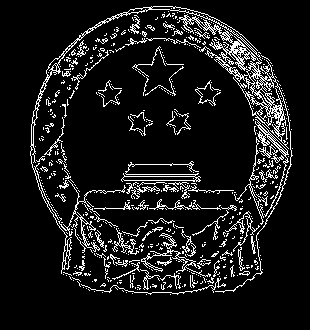
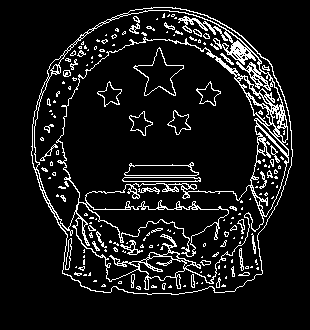
修复双线问题
修复双线问题

diff --git a/src/test.rs b/src/test.rs
@@ -1,0 +1,110 @@
+extern crate lodepng;
+use lodepng::RGB;
+
+fn main() {
+    let bitmap = lodepng::decode24_file("rust.png").unwrap();
+    let (width, height) = (bitmap.width, bitmap.height);
+    println!("width={},height={}", width, height);
+
+    let mut buffer:Vec<RGB<u8>> = vec![RGB::new(0, 0, 0); width*height];
+
+    edge_detection_h(&bitmap.buffer, &mut buffer, width, height, 127.0);
+    edge_detection_v(&bitmap.buffer, &mut buffer, width, height, 127.0);
+    
+    lodepng::encode24_file("test_out.png", &buffer, width, height).unwrap();
+}
+
+//边缘检测
+//buffer: 图像数据
+//height: 图像高度
+//width: 图像宽度
+//threshold: 阈值0~255
+//返回: 黑底百色边缘的图像数据
+fn edge_detection_h(buffer:&Vec<RGB<u8>>, out_buffer:&mut Vec<RGB<u8>>, width:usize, height:usize, threshold:f32){
+    let mut row_first_binary = true; //当前行第一个是否是双极细胞
+    let mut i = 0;
+
+    for _row in 0..height{
+        //第一列是否是双极细胞
+        let mut col_binary = row_first_binary;
+        for _col in 0..width{
+
+            match((calc_pixel(buffer.get(i+width), !col_binary, &buffer[i], threshold)
+                        + calc_pixel(buffer.get(i+width+1), col_binary, &buffer[i], threshold)
+                        )/2.0) as i32{ //(Sum(..pixel..)/255*4)*255 = Sum(..pixel..)/4
+                0 => {
+                    //out_buffer[i].r = 0;
+                    //out_buffer[i].g = 0;
+                    //out_buffer[i].b = 0;
+                }
+                _ => {
+                    out_buffer[i].r = 255;
+                    out_buffer[i].g = 255;
+                    out_buffer[i].b = 255;
+                }
+            }
+            //下一列是否是双极细胞
+            col_binary = !col_binary;
+            i += 1;
+        }
+        //下一行第一个是否是双极细胞
+        row_first_binary = !row_first_binary;
+    }
+}
+
+fn edge_detection_v(buffer:&Vec<RGB<u8>>, out_buffer:&mut Vec<RGB<u8>>, width:usize, height:usize, threshold:f32){
+    let mut row_first_binary = true; //当前行第一个是否是双极细胞
+    let mut i = 0;
+
+    for _row in 0..height{
+        //第一列是否是双极细胞
+        let mut col_binary = row_first_binary;
+        for _col in 0..width{
+
+            match((
+                        calc_pixel(buffer.get(i+width), !col_binary, &buffer[i], threshold)
+                        + calc_pixel(buffer.get(i+width+width), col_binary, &buffer[i], threshold)
+                        )/2.0) as i32{ //(Sum(..pixel..)/255*4)*255 = Sum(..pixel..)/4
+                0 => {
+                    //out_buffer[i].r = 0;
+                    //out_buffer[i].g = 0;
+                    //out_buffer[i].b = 0;
+                }
+                _ => {
+                    out_buffer[i].r = 255;
+                    out_buffer[i].g = 0;
+                    out_buffer[i].b = 0;
+                }
+            }
+            //下一列是否是双极细胞
+            col_binary = !col_binary;
+            i += 1;
+        }
+        //下一行第一个是否是双极细胞
+        row_first_binary = !row_first_binary;
+    }
+}
+
+//计算每个像素的输出
+//双极细胞(binary) 给光ON，撤光OFF
+//水平细胞(!binary) 亮光抑制，弱光增强，和双极细胞正好相反。
+// p: 像素
+// binary: true说明是像素代表双极细胞, false说明像素代表水平细胞
+// c: 如果像素没有找到，用此像素替换。
+// threshold: 阈值0~255
+fn calc_pixel(p:Option<&RGB<u8>>, binray:bool, c:&RGB<u8>, threshold:f32)->f32{
+    let pixel = match p{
+        Some(pixel) => pixel,
+        None => c
+    };
+    //二值化以后根据双极细胞、水平细胞返回输出值
+    if 0.299*pixel.r as f32+0.587*pixel.g as f32+0.114*pixel.b as f32>threshold{
+        if binray{
+            255.0 //强光双击细胞返回ON
+        }else{
+            -255.0 //强光水平细胞返回OFF
+        }
+    }else{
+        0.0 //弱光都不返回
+    }
+}

diff --git a/src/main.rs b/src/main.rs
@@ -2,13 +2,13 @@ extern crate lodepng;
 use lodepng::RGB;
 
 fn main() {
-    let bitmap = lodepng::decode24_file("0.png").unwrap();
+    let bitmap = lodepng::decode24_file("rust.png").unwrap();
     let (width, height) = (bitmap.width, bitmap.height);
     println!("width={},height={}", width, height);
 
-    let buffer = edge_detection(&bitmap.buffer, width, height, 127.0);
+    let buffer = edge_detection(&bitmap.buffer, width, height, 127.5);
     
-    lodepng::encode24_file("0_out.png", &buffer, width, height).unwrap();
+    lodepng::encode24_file("rust_out.png", &buffer, width, height).unwrap();
 }
 
 //边缘检测
@@ -19,54 +19,37 @@ fn main() {
 //返回: 黑底百色边缘的图像数据
 fn edge_detection(buffer:&Vec<RGB<u8>>, width:usize, height:usize, threshold:f32)->Vec<RGB<u8>>{
     let mut out_buffer:Vec<RGB<u8>> = vec![];
-
-    let mut row_first_binary = true; //当前行第一个是否是双极细胞
     let mut i = 0;
 
     for _row in 0..height{
         //第一列是否是双极细胞
-        let mut col_binary = row_first_binary;
         for _col in 0..width{
-            //右下4个像素
-            match((calc_pixel(buffer.get(i+1), !col_binary, &buffer[i], threshold)
-                        + calc_pixel(buffer.get(i+2), col_binary, &buffer[i], threshold)
-                        + calc_pixel(buffer.get(i+width), !col_binary, &buffer[i], threshold)
-                        + calc_pixel(buffer.get(i+width+width), col_binary, &buffer[i], threshold)
+            //4个像素
+            //双极细胞 给光ON，撤光OFF => 超过阈值:255
+            //水平细胞 亮光抑制，弱光增强，和双极细胞正好相反 => 超过阈值:-255
+            match((calc_pixel(buffer.get(i).unwrap_or(&buffer[i]), 255.0, threshold)
+                        + calc_pixel(buffer.get(i+1).unwrap_or(&buffer[i]), -255.0, threshold)
+                        +calc_pixel(buffer.get(i).unwrap_or(&buffer[i]), 255.0, threshold)
+                        + calc_pixel(buffer.get(i+width).unwrap_or(&buffer[i]), -255.0, threshold)
                         )/4.0) as i32{ //(Sum(..pixel..)/255*4)*255 = Sum(..pixel..)/4
                 0 => out_buffer.push(RGB::new(0, 0, 0)),
                 _ => out_buffer.push(RGB::new(255, 255, 255)),
             }
-
-            //下一列是否是双极细胞
-            col_binary = !col_binary;
             i += 1;
         }
-        //下一行第一个是否是双极细胞
-        row_first_binary = !row_first_binary;
     }
 
     out_buffer
 }
 
 //计算每个像素的输出
-//双极细胞(binary) 给光ON，撤光OFF
-//水平细胞(!binary) 亮光抑制，弱光增强，和双极细胞正好相反。
 // p: 像素
-// binary: true说明是像素代表双极细胞, false说明像素代表水平细胞
-// c: 如果像素没有找到，用此像素替换。
+// out: 超过阈值细胞的输出
 // threshold: 阈值0~255
-fn calc_pixel(p:Option<&RGB<u8>>, binray:bool, c:&RGB<u8>, threshold:f32)->f32{
-    let pixel = match p{
-        Some(pixel) => pixel,
-        None => c
-    };
+fn calc_pixel(pixel:&RGB<u8>, out:f32, threshold:f32)->f32{
     //二值化以后根据双极细胞、水平细胞返回输出值
     if 0.299*pixel.r as f32+0.587*pixel.g as f32+0.114*pixel.b as f32>threshold{
-        if binray{
-            255.0 //强光双击细胞返回ON
-        }else{
-            -255.0 //强光水平细胞返回OFF
-        }
+        out
     }else{
         0.0 //弱光都不返回
     }

diff --git a/README.md b/README.md
@@ -1,11 +1,13 @@
 # image edge detection imitate Retina principle 
-本算法模仿视网膜中双极细胞和水平细胞的作用，来提取图像的边缘特征。<br/><br/>
-<img src="https://github.com/planet0104/edge_detection/blob/master/table.png"/><br/><br/>
-上图中，字母代表图片的像素，B代表双极细胞, H代表水平细胞。红色B点代表当前像素点，那么当前像素点的输出等于4个蓝底像素输出值之和除以4:<br/>
-<b>pixel(1,1) = Sum(outH+outB+outH+outB)/4</b><br/>
+本算法模仿视网膜中双极细胞和水平细胞的作用，来提取图像的边缘特征：<br/><br/><br />
+<img src="http://planet0104.github.io/sjxxb.png" /><br />
+详情查看:<a href="https://baike.baidu.com/item/%E7%A5%9E%E7%BB%8F%E8%8A%82%E7%BB%86%E8%83%9E">神经节细胞</a><br /><br />
+<img src="http://planet0104.github.io/table.png"/><br/><br/>
+上图中，字母代表图片的像素，B代表双极细胞, H代表水平细胞。红色B点代表当前像素点，那么当前像素点的输出等于4个细胞输出值之和除以4:<br/>
+<b>pixel(1,1) = Sum(outB+outH+outB+outH)/4</b><br/>
 B和H的输出，根据亮度计算,如果像素亮度超过阈值，B输出255，H输出-255，没有超过阈值，二者都输出0。<br/><br/>
 算法运行效果如下：<br/><br/>
 <img src="http://planet0104.github.io/rust.png"/><img src="http://planet0104.github.io/rust_out.png"/><br/>
-<img src="https://github.com/planet0104/edge_detection/blob/master/0.png"/><img src="https://github.com/planet0104/edge_detection/blob/master/0_out.png"/><br/>
-<img src="https://github.com/planet0104/edge_detection/blob/master/1.png"/><img src="https://github.com/planet0104/edge_detection/blob/master/1_out.png"/><br/><br/>
+<img src="http://planet0104.github.io/0.png"/><img src="http://planet0104.github.io/0_out.png"/><br/>
+<img src="http://planet0104.github.io/1.png"/><img src="http://planet0104.github.io/1_out.png"/><br/><br/>
 此代码并非专业用途，纯属个人爱好。如果此算法并没有什么实际用途或者本身有错误，欢迎指正。
